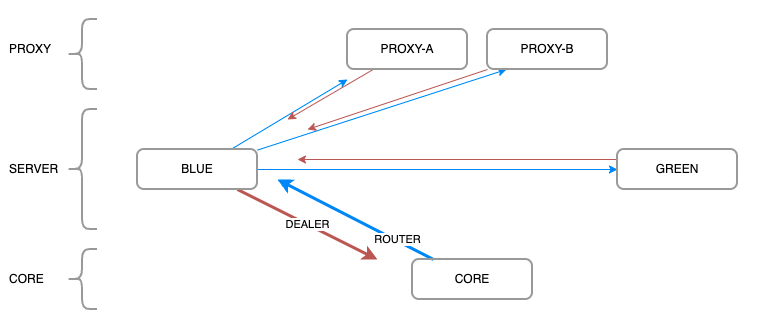
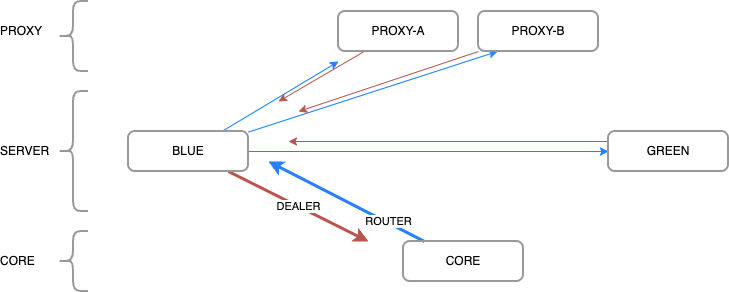
.

diff --git a/docs/zeromq-mesh.md b/docs/zeromq-mesh.md
@@ -24,7 +24,7 @@ All nodes use two ZeroMQ connection types: ROUTER, and DEALER.  Each
 node binds a ROUTER socket, then makes a DEALER connection to any peer nodes
 it has been given in discovery.
 
-![ZeroMQ Mesh](zeromq-mesh.png)
+![ZeroMQ Mesh](zeromq-mesh.webp)
 
 ## Discovery
 

diff --git a/README.md b/README.md
@@ -1,3 +1,5 @@
+![rootbus](docs/databus.jpg)
+
 # Root Bus — Ebon Root Minecraft Data Bus
 
 Minecraft data schema with proper [data normalization](https://en.wikipedia.org/wiki/Database_normalization) to the third normal form,

diff --git a/docs/data-structs.md b/docs/data-structs.md
@@ -10,7 +10,7 @@
 
 ## Entity-Relationship Diagram
 
-![ER Diagram](/docs/ER-diagram.png)
+![ER Diagram](/docs/ER-diagram.webp)
 
 ## Protobufs
 
